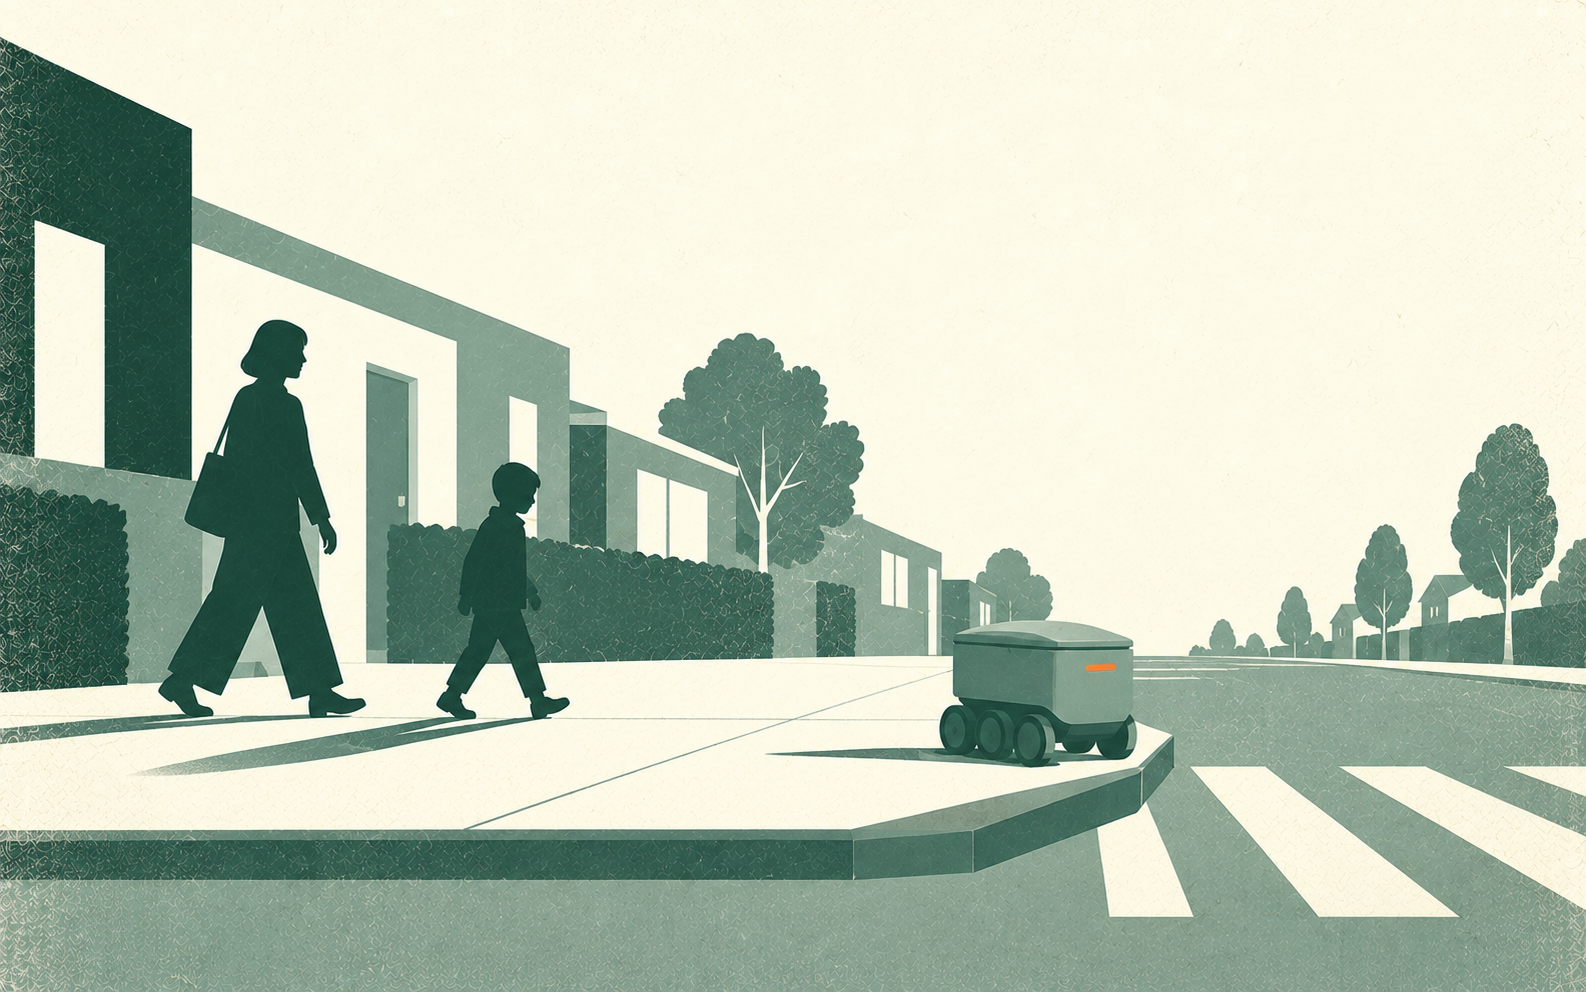
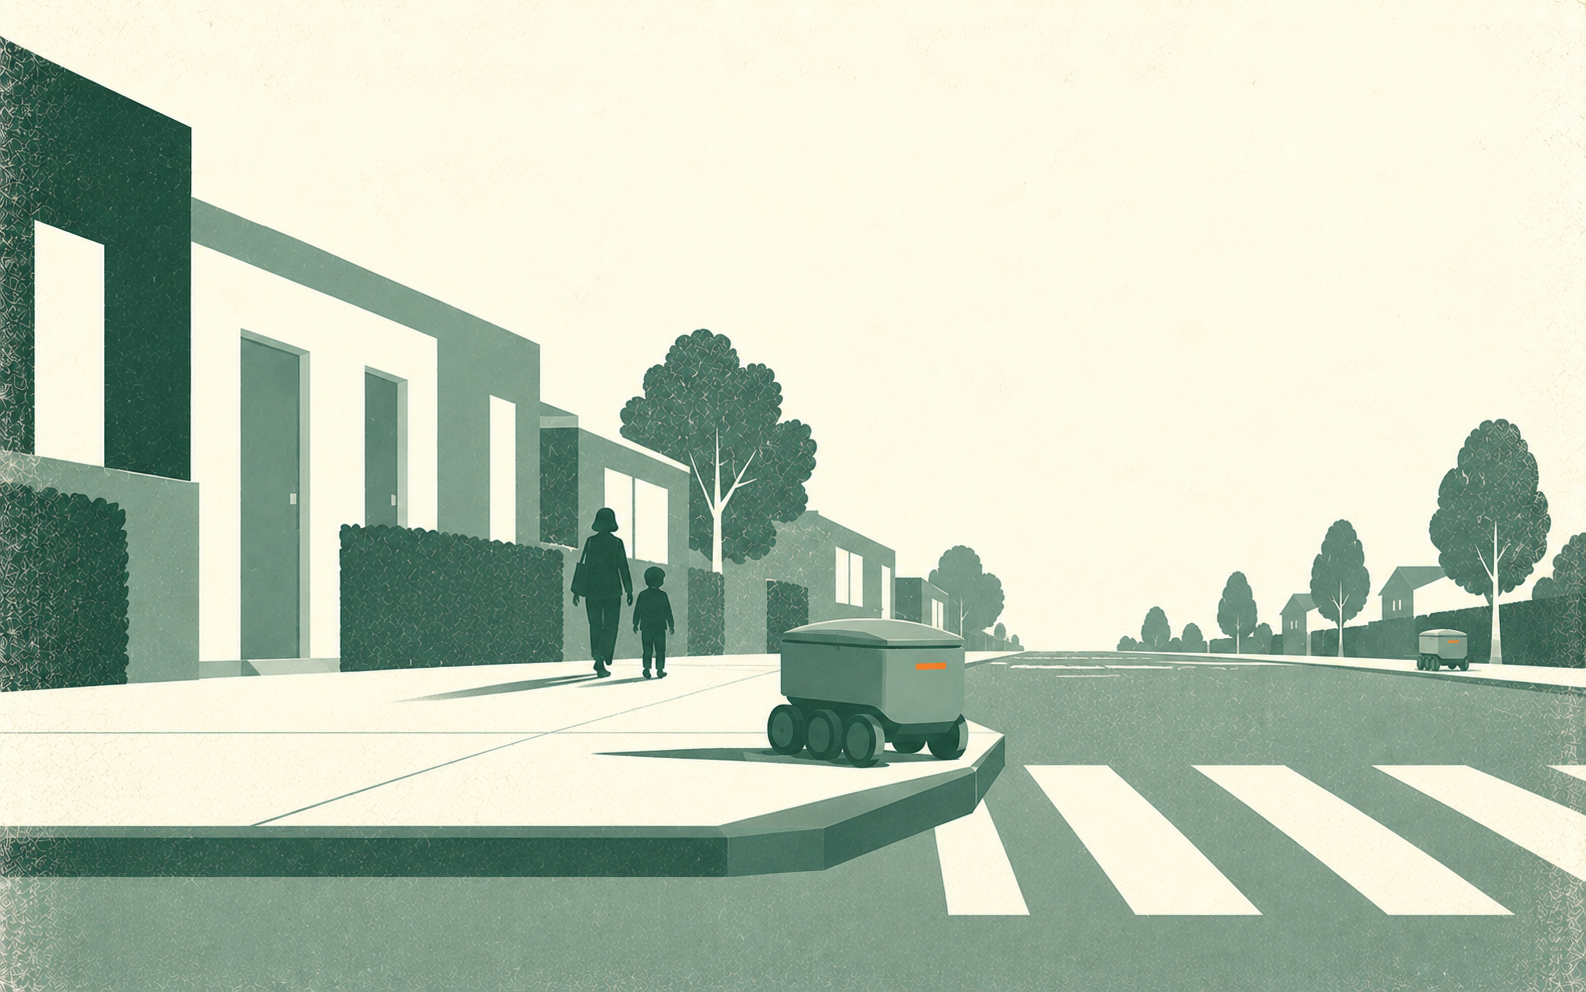
Rethink the developer AI liability image
The old prompt was built on the wrong idea. It showed a defect travelling
downstream from its maker, which is the legal theory of developer liability
rather than what this product does, and it rendered as a figure packing boxes
through a doorway: legible as a warehouse, not as insurance for shipped
software.

The product is embedded distribution. A developer integrates once, every
customer deployment registers itself, and each one is read, watched and priced
individually. So the picture now shows one building on the left with a module
in its window, a fan of lines reaching out to six smaller buildings, and the
same module running inside every one of them, with a single terracotta copy.

An alternate leads on the telemetry instead: a grid of bounded enclosures, each
holding the same module with a reading being taken inside it.

Changed region(s): [[0.0, 0.0312, 1.0, 1.0], [0.2163, 0.25, 0.2472, 0.2812]]

diff --git a/docs-internal/image-prompts.md b/docs-internal/image-prompts.md
@@ -100,15 +100,30 @@ Save as: `ai-liability.jpg`
 
 ## 3. AI Liability, For Developers
 
-**What it is:** the insured builds the AI and supplies it to others. The duty is
-what was represented, tested and released; the loss happens in someone else's
-deployment.
-**The idea:** one thing is made here, and identical copies of it leave for other
-people's buildings. The flaw travels.
+**What it is:** an agent developer embeds our API once. Every deployment they
+ship to a customer registers itself, we read its structure, watch thirty days
+of telemetry, and price that deployment.
+**The idea:** one source, many deployments, every one of them watched.
+
+The first attempt at this prompt was built around a different idea, that a
+defect travels downstream from the maker. That is the legal theory of developer
+liability, not what this product does, and it rendered as a man packing boxes
+through a door: it could have been any warehouse. The distribution is the
+story, so the picture has to show the fan-out.
 
 Save as: `ai-liability-developers.jpg`
 
-> A wide landscape editorial illustration in flat mid-century modernist style, like a 1960s corporate annual report cover or a vintage screen print. A bright, airy, well-lit workshop interior. The back wall and ceiling are large flat expanses of warm cream and fill most of the frame, so the room reads as bright and open with generous empty space. Only three things are in the room, all of them dark shapes against that pale wall. On the left, a workbench with a single small pale geometric module resting on it, and one person in deep green silhouette leaning over the work. Leaving the bench and running to the right in a straight evenly spaced row, five identical copies of that module travel away toward an open doorway in the far wall, getting slightly smaller with distance. Exactly one copy, the one nearest the doorway and about to pass through it, is burnt terracotta orange; every other copy is pale. Strictly four colors only: warm cream paper (#FFFEF2) for the walls, ceiling and the modules, covering the majority of the image, muted sage green (#7D9C90) for the floor and mid-tones, deep forest green (#1C4439) only for the bench, the silhouette, the doorframe and the shadows, and burnt terracotta orange (#C25A38) used only for that single copy. Bright and high contrast, never dark or dim. Flat vector shapes with no outlines, hard-edged geometric shadows, heavy paper grain and a faint risograph misregistration texture. Interior, precise, with a quiet sense of something leaving the room. This is an interior: no horizon, no sky, no sun, no landscape. No text, no lettering, no logos, no readable screens, no faces, no 3D render look, no neon. 16:10 wide landscape.
+> A wide landscape editorial illustration in flat mid-century modernist style, like a 1960s corporate annual report cover or a vintage screen print. A bright, spare scene under a large empty warm cream sky that fills the upper half of the frame. On the far left, one tall modernist building stands in dark silhouette with a single lit window, and inside that window sits one small pale glowing geometric module. Spreading rightward from that building, a wide fan of fine pale lines reaches across the frame to six much smaller buildings of varying simple shapes, standing at varying distances along the ground like a small skyline. Each of those six buildings has one lit window, and inside every window sits an identical copy of the same small glowing module, so the same thing is running in all of them. Exactly one of those six modules is burnt terracotta orange; the other five are pale, and no other orange appears anywhere. Strictly four colors only: warm cream paper (#FFFEF2) for the sky, the lit windows and the fanning lines, covering the majority of the image, muted sage green (#7D9C90) for the ground and mid-tones, deep forest green (#1C4439) only for the buildings and their shadows, and burnt terracotta orange (#C25A38) only for that single module. Bright and high contrast, never dark or dim. Flat vector shapes with no outlines, hard-edged geometric shadows raking to one side, heavy paper grain and a faint risograph misregistration texture. Calm, institutional, and clearly about one thing being present in many places at once. No people, no faces. No text, no lettering, no logos, no signage, no interface, no screens, no sun, no sunset, no 3D render look, no neon. 16:10 wide landscape.
+
+The fan of lines from one building to many is the whole point. If it comes back
+without them, append: "Fine pale lines clearly connect the single tall building
+on the left to every one of the smaller buildings, spreading outward across the
+frame like a fan."
+
+**Alternate, if you want the telemetry read rather than the distribution.** This
+one leads on each deployment being measured rather than on the fan-out:
+
+> A wide landscape editorial illustration in flat mid-century modernist style, like a 1960s corporate annual report cover or a vintage screen print. A clean geometric abstraction on a large plain warm cream background filling the whole frame. Arranged in an even grid, twelve identical small squares, each one a bounded enclosure drawn in thin dark outline, each containing the same simple pale geometric module at its centre. Rising from each module, a short column of fine horizontal measurement lines of differing lengths, like a small reading being taken inside every enclosure. Exactly one module is burnt terracotta orange, and its reading lines are longer than the rest. Nothing else is in the image: no room, no people, no machine, no screen. Strictly four colors only: warm cream paper (#FFFEF2) for the background and the modules, covering the majority of the image, muted sage green (#7D9C90) for the measurement lines and mid-tones, deep forest green (#1C4439) only for the enclosure outlines and shadows, and burnt terracotta orange (#C25A38) only for that single module and its lines. Bright and high contrast. Flat vector shapes with no outlines beyond the enclosures, heavy paper grain and a faint risograph misregistration texture. Precise, instrumented, institutional. No horizon, no sky, no sun, no landscape. No text, no lettering, no numbers, no logos, no interface, no screens, no people, no faces, no 3D render look, no neon. 16:10 wide landscape.
 
 ---
 
